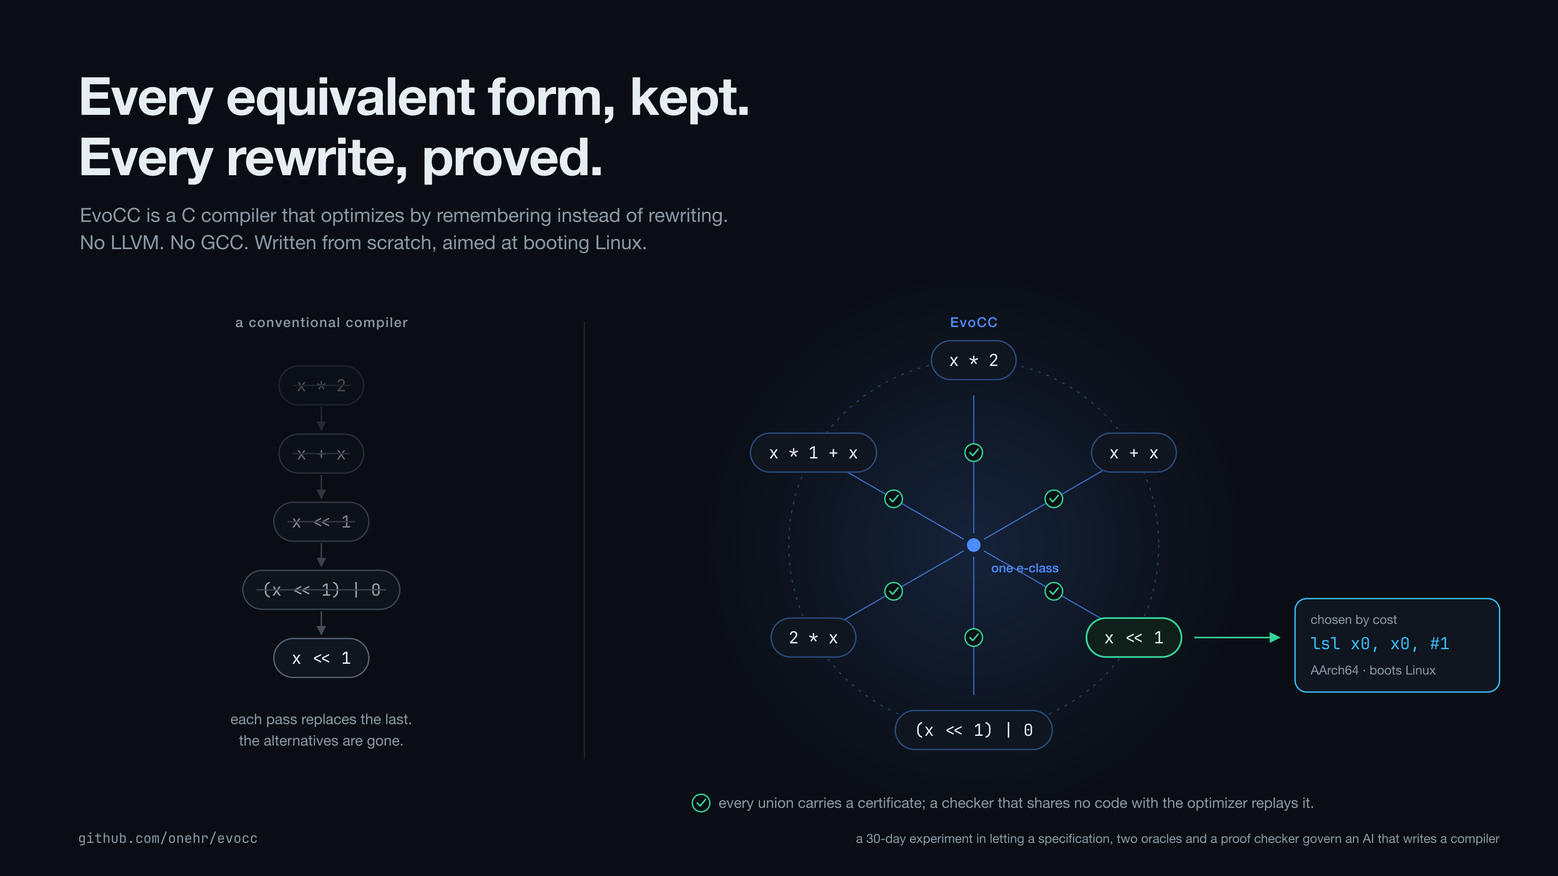
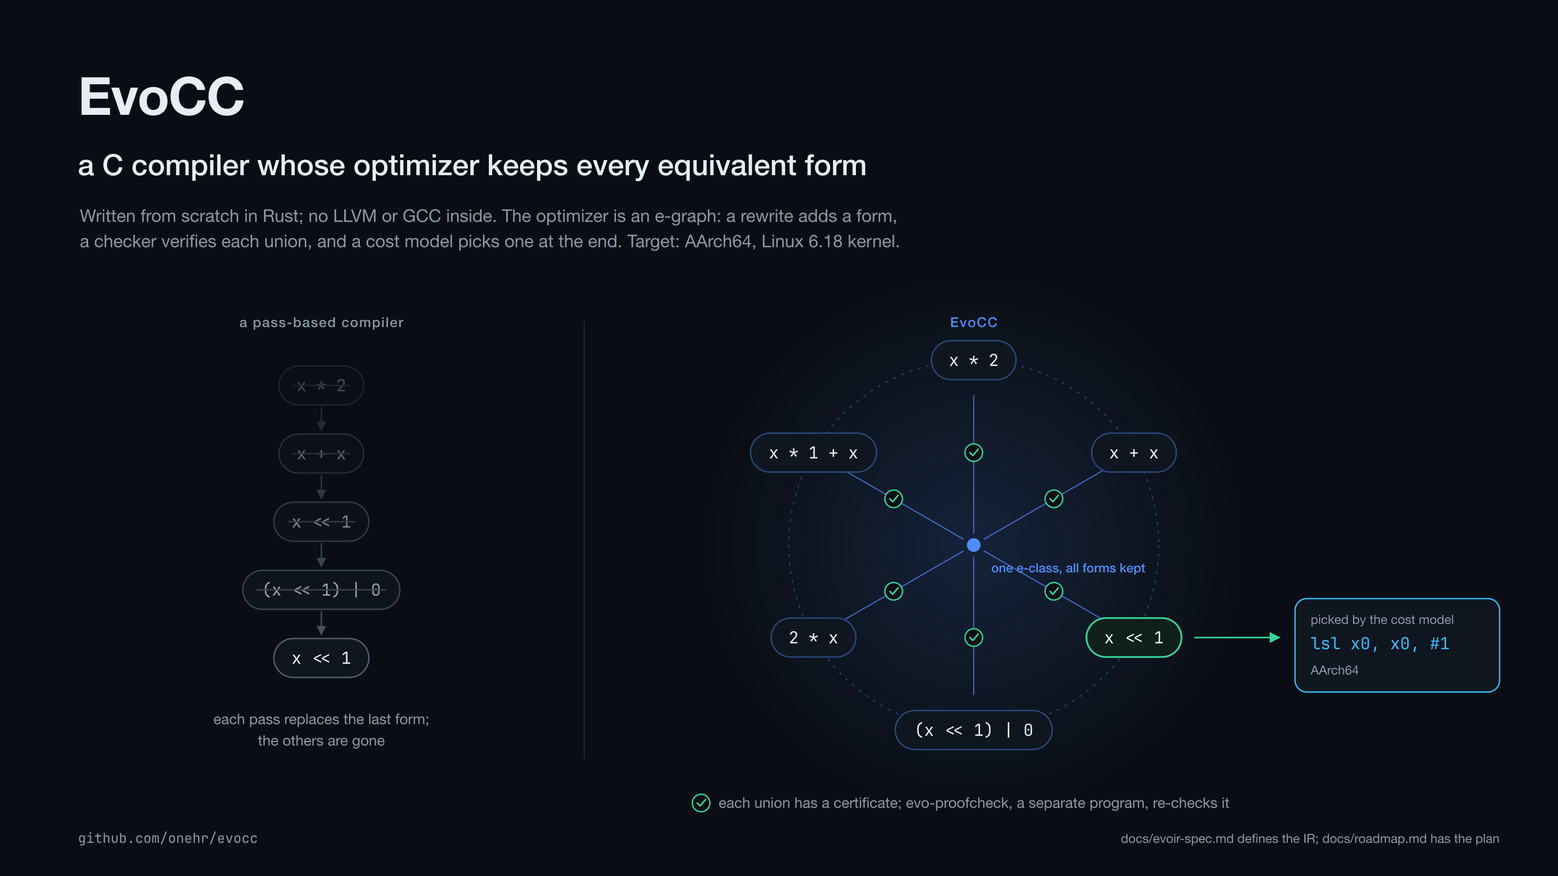
Say what the compiler is in plain words and show the milestones in order
The README and the figures now state facts: what EvoCC is, what keeps
the AI-written code honest, and the numbers on the day. A milestones
figure lists the steps in order without dates; the roadmap carries it
next to the full overview and the evaluation ladder.

diff --git a/tools/render-figures.py b/tools/render-figures.py
@@ -117,12 +117,12 @@ def wrap(s: str, width: int) -> list[str]:
 
 def concept() -> None:
     c = Canvas(1600, 900)
-    c.text(80, 118, "Every equivalent form, kept.", 54, TEXT, "700", spacing=-1)
-    c.text(80, 180, "Every rewrite, proved.", 54, TEXT, "700", spacing=-1)
-    c.text(82, 228, "EvoCC is a C compiler that optimizes by remembering instead of rewriting.", 20, MUTED)
-    c.text(82, 256, "No LLVM. No GCC. Written from scratch, aimed at booting Linux.", 20, MUTED)
+    c.text(80, 118, "EvoCC", 54, TEXT, "700", spacing=-1)
+    c.text(80, 180, "a C compiler whose optimizer keeps every equivalent form", 30, TEXT, "500")
+    c.text(82, 228, "Written from scratch in Rust; no LLVM or GCC inside. The optimizer is an e-graph: a rewrite adds a form,", 18, MUTED)
+    c.text(82, 254, "a checker verifies each union, and a cost model picks one at the end. Target: AArch64, Linux 6.18 kernel.", 18, MUTED)
     lx = 330
-    c.text(lx, 336, "a conventional compiler", 14, MUTED, "500", SANS, "middle", 1, 1)
+    c.text(lx, 336, "a pass-based compiler", 14, MUTED, "500", SANS, "middle", 1, 1)
     chain = ["x * 2", "x + x", "x << 1", "(x << 1) | 0", "x << 1"]
     ys = [396, 466, 536, 606, 676]
     for i, (s, y) in enumerate(zip(chain, ys)):
@@ -130,8 +130,8 @@ def concept() -> None:
         w, h = c.pill(lx, y, s, GRAY, 1.0 if last else 0.28 + 0.13 * i, strike=not last)
         if not last:
             c.arrow(lx, y + h / 2 + 2, lx, ys[i + 1] - h / 2 - 4, GRAY, 1.4, 0.35 + 0.15 * i)
-    c.text(lx, 744, "each pass replaces the last.", 15, MUTED, "normal", SANS, "middle")
-    c.text(lx, 766, "the alternatives are gone.", 15, MUTED, "normal", SANS, "middle")
+    c.text(lx, 744, "each pass replaces the last form;", 15, MUTED, "normal", SANS, "middle")
+    c.text(lx, 766, "the others are gone", 15, MUTED, "normal", SANS, "middle")
     c.line(600, 330, 600, 780, STROKE)
     cx, cy, r = 1000, 560, 190
     c.raw(f'<circle cx="{cx}" cy="{cy}" r="{r + 90}" fill="url(#glow)"/>')
@@ -140,7 +140,7 @@ def concept() -> None:
     n, chosen = len(forms), 2
     c.raw(f'<circle cx="{cx}" cy="{cy}" r="{r}" fill="none" stroke="{BLUE}" stroke-opacity="0.35" stroke-width="1.2" stroke-dasharray="3 6"/>')
     c.raw(f'<circle cx="{cx}" cy="{cy}" r="7" fill="{BLUE}"/>')
-    c.text(cx + 18, cy + 28, "one e-class", 13, BLUE, "500")
+    c.text(cx + 18, cy + 28, "one e-class, all forms kept", 13, BLUE, "500")
     for i, s in enumerate(forms):
         ang = -math.pi / 2 + i * 2 * math.pi / n
         px, py = cx + r * math.cos(ang), cy + r * math.sin(ang)
@@ -152,23 +152,23 @@ def concept() -> None:
     bx, by = 1330, py - 4
     c.arrow(px + 62, py, bx - 16, py, GREEN, 1.6)
     c.rect(bx, by - 36, 210, 96, PANEL, CYAN, 12, 1.4)
-    c.text(bx + 16, by - 10, "chosen by cost", 13, MUTED)
+    c.text(bx + 16, by - 10, "picked by the cost model", 13, MUTED)
     c.text(bx + 16, by + 16, "lsl  x0, x0, #1", 17, CYAN, "normal", MONO)
-    c.text(bx + 16, by + 42, "AArch64 · boots Linux", 13, MUTED)
+    c.text(bx + 16, by + 42, "AArch64", 13, MUTED)
     c.seal(720, 825)
-    c.text(738, 830, "every union carries a certificate; a checker that shares no code with the optimizer replays it.", 15, MUTED)
+    c.text(738, 830, "each union has a certificate; evo-proofcheck, a separate program, re-checks it", 15, MUTED)
     c.text(80, 866, "github.com/onehr/evocc", 14, MUTED, "normal", MONO)
-    c.text(1540, 866, "a 30-day experiment in letting a specification, two oracles and a proof checker govern an AI that writes a compiler", 13, MUTED, "normal", SANS, "end")
+    c.text(1540, 866, "docs/evoir-spec.md defines the IR; docs/roadmap.md has the plan", 13, MUTED, "normal", SANS, "end")
     c.write("evocc-concept")
 
 
 def overview() -> None:
     c = Canvas(1600, 960)
     c.text(60, 70, "EvoCC", 44, TEXT, "700")
-    c.text(60, 100, "an equality-native C compiler, written from scratch, aimed at the Linux kernel", 20, MUTED)
+    c.text(60, 100, "a C compiler written from scratch in Rust; e-graph optimizer with certificates; target AArch64 and the Linux 6.18 kernel", 18, MUTED)
     c.raw('<rect x="60" y="116" width="1480" height="2" fill="url(#hair)" opacity="0.8"/>')
     x = 60
-    for s, col in (("Rust workspace, 16 crates", CYAN), ("no LLVM, no GCC in the pipeline", BLUE), ("AArch64: Linux + Darwin", BLUE), ("every rewrite carries a proof", GREEN), ("every number from a sealed receipt", GREEN)):
+    for s, col in (("Rust workspace, 16 crates", CYAN), ("no LLVM, no GCC in the pipeline", BLUE), ("AArch64: Linux + Darwin", BLUE), ("each rewrite has a certificate", GREEN), ("numbers come from receipts", GREEN)):
         x += c.chip(x, 132, s, col) + 12
     nodes = [
         ("C / GNU C11", ["Linux 6.18.44", "2,798 translation units"], GRAY, SANS),
@@ -195,14 +195,14 @@ def overview() -> None:
         if i < len(nodes) - 1:
             c.arrow(x + nw + 4, ny + nh / 2, x + nw + gap - 4, ny + nh / 2, col if col != GRAY else STROKE)
     ty = 392
-    c.text(60, ty + 40, "Nothing is", 17, TEXT, "600")
-    c.text(60, ty + 62, "trusted", 17, TEXT, "600")
-    for j, s in enumerate(("three independent", "checks under the", "pipeline")):
+    c.text(60, ty + 40, "Three", 17, TEXT, "600")
+    c.text(60, ty + 62, "checks", 17, TEXT, "600")
+    for j, s in enumerate(("independent of", "the optimizer", "and of each other")):
         c.text(60, ty + 88 + j * 16, s, 12.5, MUTED)
     boxes = [
         (2, "Two interpreters must agree", ["C-HIR interpreter and EvoIR interpreter are", "separate implementations; every corpus program", "runs through both, and a difference is a defect"], [2, 3]),
         (4, "Certificates, checked independently", ["each e-graph union emits an EVP2 certificate;", "evo-proofcheck replays it against the before and", "after programs and shares no code with the optimizer"], [4]),
-        (6, "Randomized differential gate", ["21,000 generated programs, 0 mismatches, across", "four lanes: source IR, optimized IR, machine IR,", "and the native binary on both targets"], [5, 7]),
+        (6, "Random programs, four ways", ["21,000 generated programs, 0 mismatches, run as", "source IR, optimized IR, machine IR and native", "binary on both targets"], [5, 7]),
     ]
     for first, title, lines_, feeds in boxes:
         bx, bw = nx + first * (nw + gap), 2 * nw + gap
@@ -215,11 +215,11 @@ def overview() -> None:
             sx = nx + ni * (nw + gap) + nw / 2
             c.arrow(sx, ny + nh + 4, sx, ty + 2, GREEN, 1.4)
     by = 552
-    c.text(60, by - 6, "How it is built", 17, TEXT, "600")
+    c.text(60, by - 6, "How the work is done", 17, TEXT, "600")
     cols = [
-        ("The specification is the only authority", BLUE, ["EvoIR spec 1.9.68 and EvoMIR spec 0.15 freeze every rule", "a rule about observable behaviour is measured in a sealed", "GCC-14.2 / Clang-19.1 container before it is written down", "when the two disagree, the spec takes the answer that refuses", "anything unspecified fails closed with a named diagnostic"]),
-        ("AI executors work under contract", CYAN, ["a window opens with a tests-only commit whose failures", "are declared in advance, and closes with a sealed receipt", "an executor that meets a gap in the spec stops and reports;", "it may probe the oracles, never guess", "no status exists that a command did not produce"]),
-        ("Measured against the real thing", GREEN, ["full-configuration surveys: every kernel unit, first diagnostic", "ranked, one rule per class, re-surveyed until the face changes", "mixed-link lane: GCC builds the kernel, EvoCC replaces units,", "kbuild relinks, QEMU boots, a failure bisects to one unit", "ladder: c-testsuite, GCC torture, zlib, zstd, Mbed TLS, musl, Linux"]),
+        ("Rules come from the specification", BLUE, ["EvoIR spec 1.9.68 and EvoMIR spec 0.15 hold every rule", "before a rule is written, the behaviour is checked in a", "sealed container with GCC 14.2 and Clang 19.1", "when the two disagree, the rule refuses the construct", "anything unspecified is refused with a numbered diagnostic"]),
+        ("How the AI agents work", CYAN, ["tests first: a commit whose failures are listed in advance,", "then the implementation, then a receipt with the numbers", "an agent that finds a gap in the spec stops and reports;", "it can run the reference compilers, it cannot guess", "every status number is produced by a script"]),
+        ("How it is measured", GREEN, ["survey: compile all 2,798 kernel units, group them by the", "first diagnostic, write one rule per group, repeat", "kernel: GCC builds it, EvoCC replaces units, kbuild relinks,", "QEMU boots it, a failure is bisected to one unit", "programs: c-testsuite, GCC torture, zlib, zstd, Mbed TLS, musl"]),
     ]
     cw = (1480 - 2 * 24) / 3
     for i, (title, col, lines_) in enumerate(cols):
@@ -230,12 +230,12 @@ def overview() -> None:
         for j, s in enumerate(lines_):
             c.text(cx + 26, by + 63 + j * 21, s, 13.5, MUTED)
     sy = 766
-    c.text(60, sy - 6, "Where it stands (2026-09-06, from the receipts)", 17, TEXT, "600")
+    c.text(60, sy - 6, "Numbers on 2026-09-06", 17, TEXT, "600")
     stats = [
         ("2,798 / 2,798", "kernel units preprocess and parse clean", BLUE),
-        ("30 / 2,798", "kernel units lower to EvoIR with no diagnostic; the rest stop at a named class, one rule each", CYAN),
+        ("30 / 2,798", "kernel units lower to EvoIR with no diagnostic; the rest stop at a known construct", CYAN),
         ("384 + 384", "C programs agree with clang on Darwin and with GCC-14 on Linux, source to native", GREEN),
-        ("5", "EvoCC-compiled units inside a Linux kernel that boots; GCC supplies the rest", BLUE),
+        ("5", "kernel units compiled by EvoCC inside a kernel that boots; GCC compiled the rest", BLUE),
         ("186 / 220", "c-testsuite programs pass; 637 of 1,692 GCC torture programs pass on the first run", GREEN),
     ]
     sw = (1480 - 4 * 16) / 5
@@ -246,14 +246,14 @@ def overview() -> None:
         for j, s in enumerate(wrap(small, 36)[:3]):
             c.text(sx + 18, sy + 71 + j * 17, s, 12.5, MUTED)
     c.text(60, 930, "github.com/onehr/evocc", 14, MUTED, "normal", MONO)
-    c.text(1540, 930, "written by AI agents; the specification, the oracles and the checker decide what is true", 13, MUTED, "normal", SANS, "end")
+    c.text(1540, 930, "docs/status.md is rendered from the receipts", 13, MUTED, "normal", SANS, "end")
     c.write("evocc-overview")
 
 
 def ladder() -> None:
     c = Canvas(1600, 620)
     c.text(60, 64, "The evaluation ladder", 34, TEXT, "700")
-    c.text(60, 96, "every rung is a pinned release with its own test suite as the judge; the kernel is the top, not the only reading", 17, MUTED)
+    c.text(60, 96, "each program is pinned to a release and judged by its own test suite", 17, MUTED)
     groups = [
         ("compiler test suites", BLUE, [("E0a", "GCC C torture", "GCC 16.2", "637 / 1,692 pass"), ("E0b", "c-testsuite", "5c7275656d75", "186 / 220 pass"), ("E0c", "Csmith, no float", "0cdc710315cf", "differential")]),
         ("integer programs", CYAN, [("E1", "zlib", "1.3.2", "make test"), ("E2", "zstd", "1.5.7", "make check"), ("E4", "Mbed TLS", "4.2.0", "selftest"), ("E5", "TinyCC", "0.9.27", "self-hosted tests"), ("E6", "toybox", "0.8.14", "make tests"), ("E7", "musl + libc-test", "1.2.6", "libc-test")]),
@@ -284,10 +284,54 @@ def ladder() -> None:
         c.line(gx0 + 6, y_track + 120, x - 6, y_track + 120, col, 1.2, 0.8)
         c.text((gx0 + x) / 2, y_track + 142, name, 13, col, "600", SANS, "middle", 1, 1)
         x += 40
-    c.text(60, 520, "filled rung: measured at least once.   ladder rules: pinned source with SHA-256, the subject's own suite judges, mixed link is the ramp (units by EvoCC in a passing build, the rest by the reference compiler with the code that kept them out).", 13, MUTED)
-    c.text(60, 544, "floating point is a backend rung of its own; subjects behind it are not evidence before it exists.", 13, MUTED)
+    c.text(60, 520, "filled: run at least once. For each program the receipt records the units EvoCC compiled in a passing build and, for the rest, the diagnostic that kept them out.", 13, MUTED)
+    c.text(60, 544, "the backend has no floating point yet; the programs after F1 wait for it.", 13, MUTED)
     c.text(60, 590, "github.com/onehr/evocc  ·  docs/roadmap.md", 14, MUTED, "normal", MONO)
     c.write("evocc-ladder")
+
+
+def milestones() -> None:
+    c = Canvas(1600, 430)
+    c.text(60, 60, "Milestones, in order", 30, TEXT, "700")
+    c.text(60, 90, "no dates; each one is done when its receipt says so", 16, MUTED)
+    items = [
+        ("preprocess and parse", "every kernel unit", "done"),
+        ("backend", "AArch64, two targets", "done"),
+        ("kernel objects boot", "5 units by EvoCC", "done"),
+        ("lower every unit", "30 of 2,798 so far", "now"),
+        ("machine forms", "varargs, asm, relocs", "now"),
+        ("test suites", "c-testsuite, torture", "now"),
+        ("programs", "zlib, zstd, Mbed TLS, musl", "next"),
+        ("most kernel units", "by EvoCC, boots", "next"),
+        ("whole kernel", "EvoCC alone, boots", "later"),
+        ("kselftest", "passes in initramfs", "later"),
+        ("floating point", "then SQLite, Lua", "later"),
+    ]
+    x0, x1, y = 150, 1450, 230
+    step = (x1 - x0) / (len(items) - 1)
+    c.line(x0, y, x1, y, STROKE, 2)
+    colors = {"done": GREEN, "now": CYAN, "next": BLUE, "later": GRAY}
+    for i, (title, sub, state) in enumerate(items):
+        x = x0 + i * step
+        col = colors[state]
+        if state == "done":
+            c.raw(f'<circle cx="{x}" cy="{y}" r="9" fill="{col}"/>')
+        elif state == "now":
+            c.raw(f'<circle cx="{x}" cy="{y}" r="9" fill="{BG}" stroke="{col}" stroke-width="2.5"/><circle cx="{x}" cy="{y}" r="4" fill="{col}"/>')
+        else:
+            c.raw(f'<circle cx="{x}" cy="{y}" r="9" fill="{BG}" stroke="{col}" stroke-width="2"/>')
+        above = i % 2 == 0
+        ty = y - 46 if above else y + 44
+        c.line(x, y - 11 if above else y + 11, x, y - 26 if above else y + 26, col, 1, 0.7)
+        c.text(x, ty, title, 15, TEXT, "600", SANS, "middle")
+        c.text(x, ty + 20, sub, 12.5, MUTED, "normal", SANS, "middle")
+    lx = 60
+    for label, col in (("done", GREEN), ("in progress", CYAN), ("next", BLUE), ("later", GRAY)):
+        c.raw(f'<circle cx="{lx + 8}" cy="356" r="6" fill="{col if label == "done" else BG}" stroke="{col}" stroke-width="2"/>')
+        c.text(lx + 22, 361, label, 13, MUTED)
+        lx += 110
+    c.text(1540, 361, "docs/roadmap.md", 13, MUTED, "normal", MONO, "end")
+    c.write("evocc-milestones")
 
 
 if __name__ == "__main__":
@@ -295,4 +339,5 @@ if __name__ == "__main__":
     concept()
     overview()
     ladder()
+    milestones()
     print("rendered:", ", ".join(p.name for p in sorted(OUT.iterdir()) if p.suffix in (".svg", ".png")))

diff --git a/README.md b/README.md
@@ -1,23 +1,20 @@
 # EvoCC
 
-**A C compiler that never throws away an equivalent form of your program, proves every optimization it makes, and is aimed at booting Linux, with no LLVM or GCC anywhere inside.**
+EvoCC is a C compiler written from scratch in Rust. It has its own preprocessor, parser, IRs, optimizer, register allocator and emitter; the platform assembler and linker are the only outside tools. The optimizer is an [e-graph](https://egraphs-good.github.io/): a rewrite adds an equivalent form instead of replacing code, a cost model picks one form at the end, and every union carries a certificate that a separate program checks. The target is AArch64 (Linux and macOS), and the program it is being brought up on is the Linux 6.18.44 `arm64 virtconfig` kernel.
 
-Most compilers optimize by rewriting: each pass replaces code with something it believes is better, and the original is gone. EvoCC keeps all of them. Its optimizer is an [e-graph](https://egraphs-good.github.io/): every rewrite *adds* an equivalent form instead of replacing one, a cost model picks the best at the end, and every union carries a certificate that a separate checker replays without trusting the optimizer. The target is a real one: a pinned Linux 6.18.44 `arm64 virtconfig` kernel.
+![EvoCC](docs/images/evocc-concept.png)
 
-![Every equivalent form, kept. Every rewrite, proved.](docs/images/evocc-concept.png)
+The compiler is written by AI agents. What keeps that honest:
 
-- **From scratch.** Preprocessor, parser, IRs, optimizer, register allocator and emitter are all EvoCC's own, in Rust. The platform assembler and linker are the only outside tools.
-- **Built by AI, governed by a specification.** The compiler is written by AI agents that may not guess. Every language rule is frozen in a versioned specification, measured against sealed GCC-14 and Clang-19 before it is written, and a gap in the specification stops the work instead of being papered over.
-- **Every number is measured.** Status is rendered from sealed receipts by a script that fails on drift. Nothing here was typed by hand into a table.
+- **The specification decides.** Every language rule lives in [docs/evoir-spec.md](docs/evoir-spec.md) and [docs/evomir-spec.md](docs/evomir-spec.md). Before a rule is written, the behaviour is checked against GCC 14.2 and Clang 19.1 in a sealed container. Where the two disagree, the rule refuses the construct. Anything unspecified is refused with a numbered diagnostic.
+- **Tests first, receipts after.** Each change starts with a commit whose failing tests are listed in advance, and ends with a receipt in `tests/contracts/` holding the numbers. An agent that finds a gap in the specification stops and reports it.
+- **Numbers are produced, not typed.** [docs/status.md](docs/status.md) is rendered from the receipts by `tools/render-status.py`; `--check` fails if it drifts.
 
-## Four questions
+## Where it is
 
-1. **Can a specification be the sole authority for an AI that writes a compiler?** The AI proposes; the oracles and the checker dispose.
-2. **Can AI build, from nothing, a compiler that is correct on industrial code?** Correct on the Linux kernel, checked layer by layer against compilers that are.
-3. **Can an e-graph replace the optimization pipeline?** Within a fixed budget, with a proof for every rewrite.
-4. **Can the optimizer improve itself?** Rules, cost model and schedule are policies the checker never has to trust, so a search can propose without being able to make the compiler wrong.
+![Milestones](docs/images/evocc-milestones.png)
 
-Where each question stands, with the evidence, is in [docs/status.md](docs/status.md); the reasoning and the evaluation ladder are in [docs/roadmap.md](docs/roadmap.md).
+As of 2026-09-06: all 2,798 kernel translation units preprocess and parse; 30 lower to EvoIR with no diagnostic, and the rest stop at constructs that now have rules and are being implemented. 384 C programs compile to native code and agree with clang on macOS and with GCC 14 on Linux. Five EvoCC-compiled units run inside a Linux kernel that boots, with GCC compiling the rest. On the first run of outside test suites, 186 of 220 c-testsuite programs and 637 of 1,692 GCC torture programs pass; the failures are filed as compiler defects. The plan, the evaluation ladder and the pinned versions are in [docs/roadmap.md](docs/roadmap.md).
 
 ## Try it
 
@@ -36,7 +33,7 @@ int main(void) {
 }
 ```
 
-Two independent interpreters must agree, and the machine must agree with both:
+The two interpreters are separate implementations and must agree; the native binary must agree with both:
 
 ```sh
 $ target/release/evocc --interpret-c-hir demo.c      # checked high-level IR
@@ -46,7 +43,7 @@ $ target/release/evocc --interpret-evoir demo.c      # after lowering to SSA
 $ target/release/evocc --target=aarch64-unknown-linux-gnu --emit=asm demo.c > demo.s
 ```
 
-Watch a rewrite land and keep its obligation. The multiply disappears; the overflow fact the program carried stays, because an optimization may remove work, never a fact the program must still satisfy:
+A rewrite removes the multiply but keeps the overflow obligation the program carried, because an optimization may remove work, not a fact the program must satisfy:
 
 ```sh
 $ echo 'int f(int x) { return x * 1; }' > opt.c
@@ -57,18 +54,15 @@ $ target/release/evocc --emit=evoir -Oeq-scalar opt.c | tail -4
 }
 ```
 
-Every such rewrite emits a certificate, and `evo-proofcheck before.evoir after.evoir proof.evp2` replays it with no code shared with the optimizer. Other flags: `-E`, `--parse-only`, `--emit=c-hir`, `--emit=evoir`, and `--survey`, which reports every diagnostic in a file instead of the first.
+`evo-proofcheck before.evoir after.evoir proof.evp2` re-checks the certificate for such a rewrite. Other flags: `-E`, `--parse-only`, `--emit=c-hir`, `--emit=evoir`, and `--survey`, which reports every diagnostic in a file instead of the first.
 
 ## How it works
 
-- **Semantics first.** C lowers to EvoIR, a block-argument SSA where memory and observable effects are explicit `mem` and `world` tokens, undefined behaviour is an `ub.assume` obligation, and pointers carry provenance. The e-graph only ever sees a program whose dangerous parts are already spelled out.
-- **Equivalence is state.** Rewrites merge e-classes rather than replacing nodes; phase order stops mattering, and a cost model chooses at extraction from everything the rules could prove equal.
-- **Proofs are the product.** Each union records why it was allowed; a standalone checker replays the record against the before and after programs.
-- **The machine is checked too.** EvoMIR's register allocation is verified by an independent allocator checker, and a randomized gate runs 21,000 generated programs through the source IR, the optimized IR, the machine IR and the native binary on both targets.
-
-## How the work is done
-
-The specifications ([EvoIR](docs/evoir-spec.md), [EvoMIR](docs/evomir-spec.md)) are the only authority. A rule about observable behaviour is measured in a sealed GCC-14.2 / Clang-19.1 container before it is written down; where the two disagree, the spec takes the answer that refuses. Every change opens with a tests-only commit whose failures are declared in advance and closes with a receipt under `tests/contracts/`. The kernel is measured the way a compiler bring-up is done: GCC builds it, EvoCC replaces translation units one at a time, kbuild relinks, QEMU boots, and a failure bisects to one unit.
+- C lowers to EvoIR, a block-argument SSA in which memory and observable effects are explicit `mem` and `world` tokens, undefined behaviour is an `ub.assume` obligation, and pointers carry provenance. The e-graph only sees programs whose dangerous parts are already explicit.
+- Rewrites merge e-classes instead of replacing nodes. Pass order stops mattering; the cost model chooses at extraction from everything the rules proved equal.
+- Each union records why it was allowed. `evo-proofcheck` replays the record against the before and after programs and shares no code with the optimizer.
+- EvoMIR's register allocation is checked by an independent verifier. A randomized gate runs 21,000 generated programs as source IR, optimized IR, machine IR and native binary on both targets.
+- The kernel is measured the way a compiler bring-up is done: GCC builds it, EvoCC replaces translation units one at a time, kbuild relinks, QEMU boots, and a failure bisects to one unit.
 
 ## Layout
 
@@ -81,8 +75,8 @@ crates/evocc-types      types and layout            crates/evocc-policy      cos
 crates/evocc-chir       checked IR, interpreter     crates/evocc-randgate    randomized semantic gate
 crates/evocc-lower      C-HIR -> EvoIR              crates/evocc-mir         EvoMIR, allocation, emission
 crates/evocc-evoir      EvoIR, validator, interp    tools/k1/                kernel mixed-link lane
-docs/                   specifications, roadmap, status
+docs/                   specifications, roadmap, status, figures
 tests/contracts/        frozen corpora and receipts
 ```
 
-Figures are generated by `tools/render-figures.py` from one palette. Every landing passes the workspace tests, `clippy -D warnings`, `rustfmt`, Ruff, both layout corpora against the sealed oracles, and an isolated offline replay; `tools/gate-changed.sh` runs the same gate for only the crates a change touched.
+Every landing passes the workspace tests, `clippy -D warnings`, `rustfmt`, Ruff, both layout corpora against the sealed oracles, and an isolated offline replay; `tools/gate-changed.sh` runs the same gate for only the crates a change touched. Figures come from `tools/render-figures.py`.

diff --git a/docs/roadmap.md b/docs/roadmap.md
@@ -1946,6 +1946,10 @@ That is the central research bet: **optimization is not a sequence of mutations 
 
 For the 30-day campaign, the discipline is equally important: **Mac-native execution by the midpoint, Linux AArch64 kernel boot as the primary launch, proof-carrying EqSat enabled for that launch, and x86 only after ARM64 is green.** That keeps the project ambitious enough to be genuinely new without spending the month accidentally rebuilding an assembler, an ILP solver, a whole-CFG research prototype, and two production backends before the first real program runs.
 
+## Milestones, in order
+
+![Milestones](images/evocc-milestones.png)
+
 ## The whole design in one picture
 
 ![EvoCC: pipeline, checks, governance and current readings](images/evocc-overview.png)
